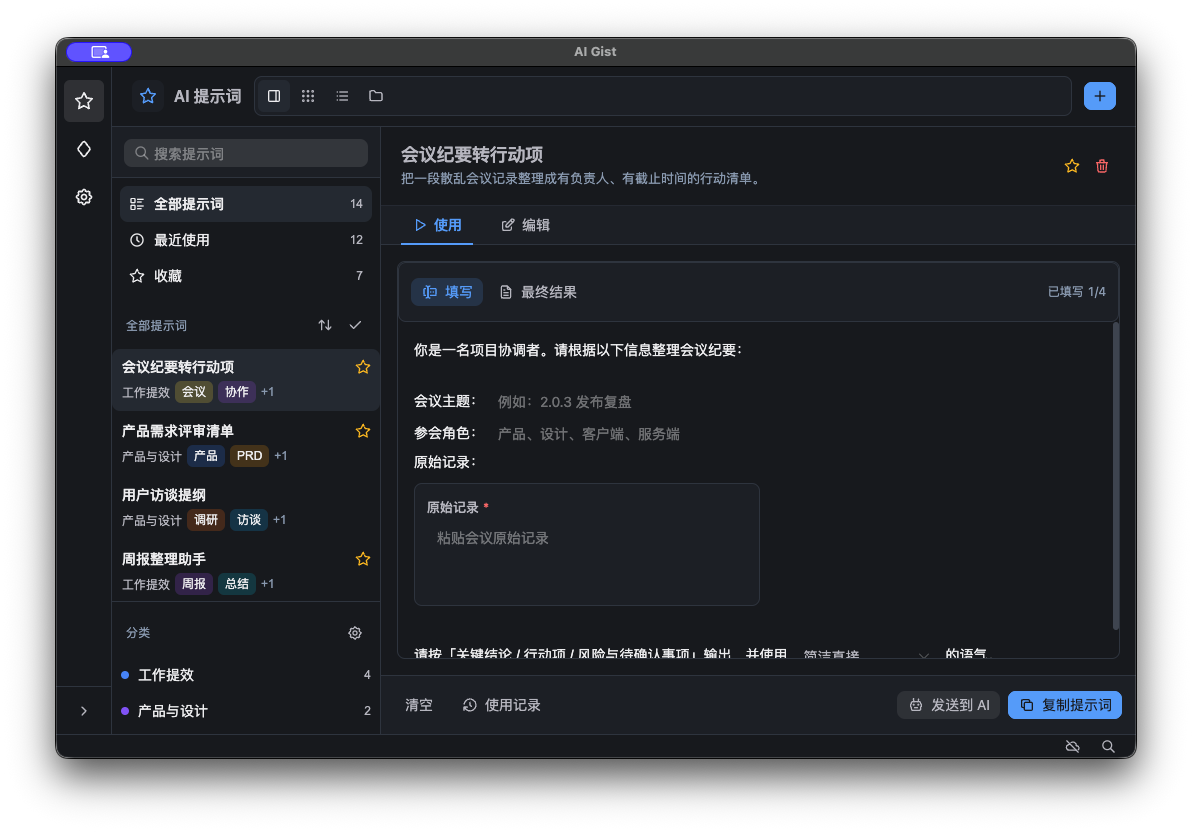
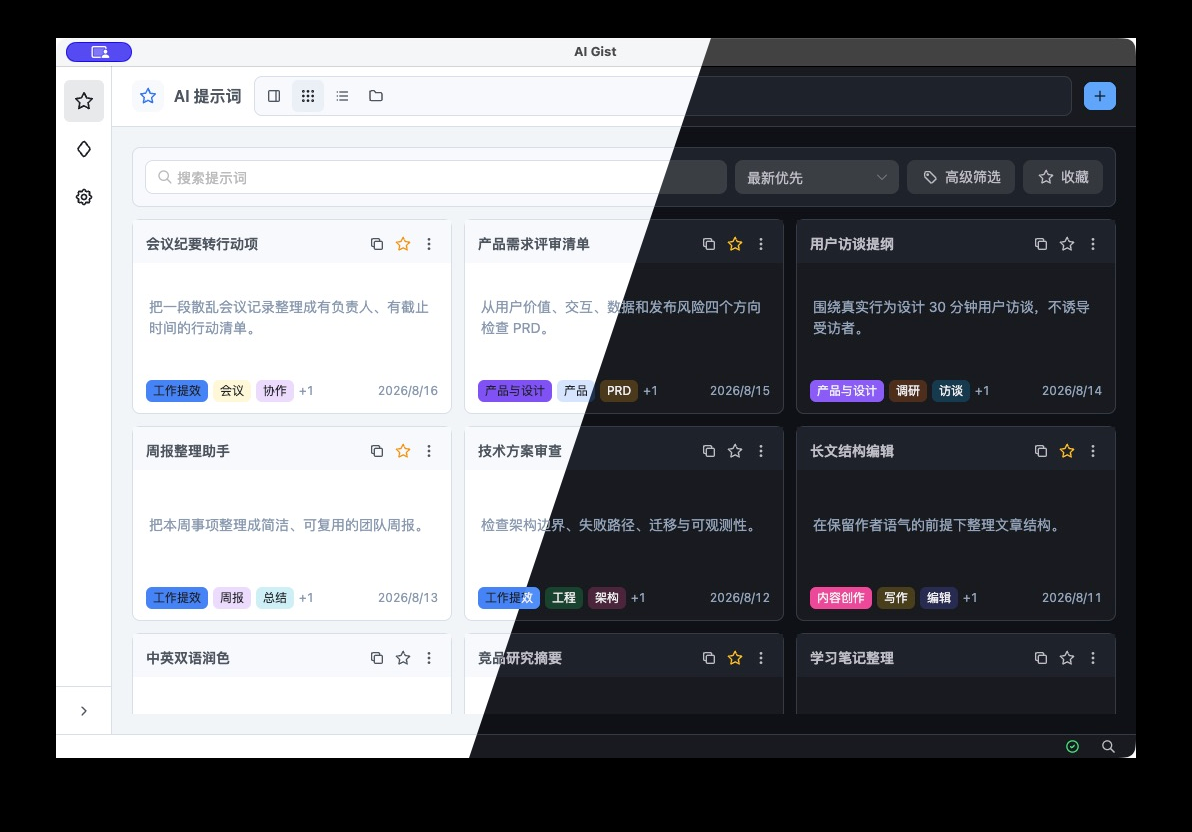
2026-08-17-更新明暗双主题封面图

diff --git a/README.md b/README.md
@@ -8,7 +8,7 @@
 
 ✨ AI Gist 是一款隐私优先的 AI 提示词管理工具，致力于让个人收藏的 AI 提示词能够发挥最大价值。现已覆盖 Windows / macOS / Linux 桌面端，并提供 Android APK 与 iOS App Store 版本，支持变量替换、Jinja 模板、AI 生成与调优、历史版本记录、云端备份等核心功能。
 
-![主要截图](docs/images/image-main.png?v=202608162327)
+![主要截图](docs/images/image-main.png?v=202608170119)
 
 [🏠 访问官网](https://getaigist.com) | [🔗 GitHub 下载](https://github.com/yarin-zhang/AI-Gist/releases) | [🤖 Android APK](https://github.com/yarin-zhang/AI-Gist/releases/latest) | [🍎 App Store](https://apps.apple.com/cn/app/ai-gist/id6762559220) | [🔏 Code signing policy](CODE_SIGNING_POLICY.md) | [🔒 隐私政策](PRIVACY.md)
 
